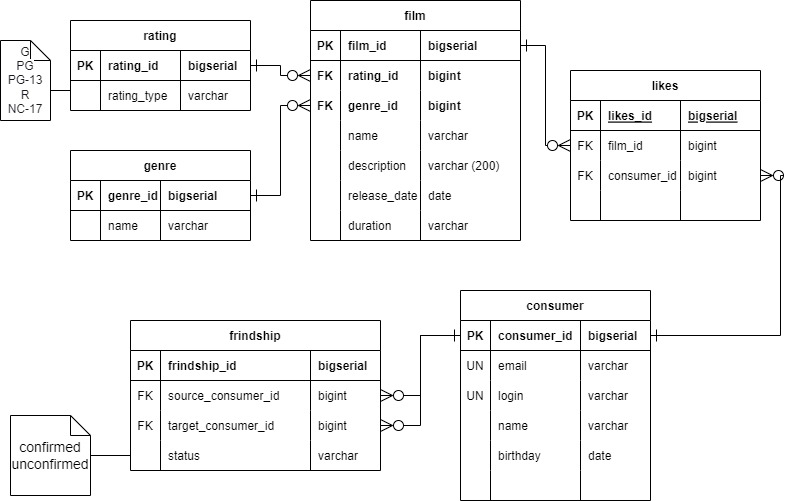
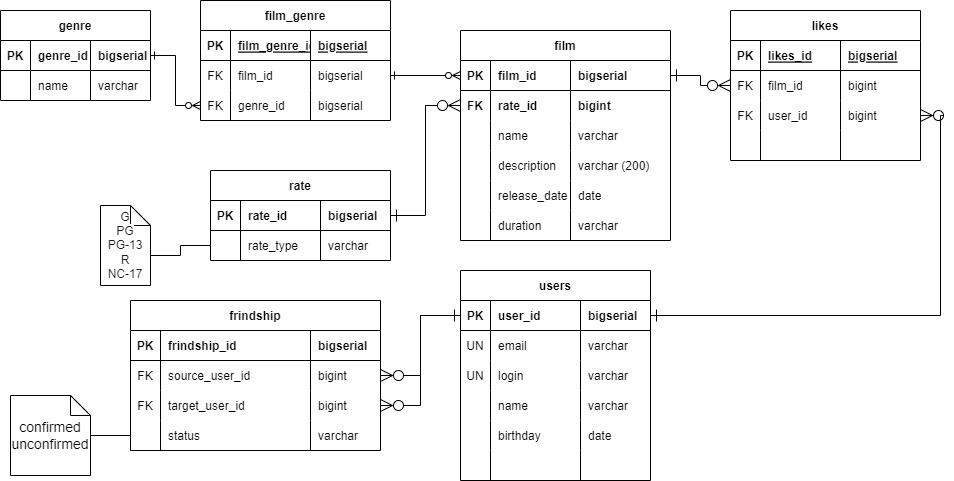
fix: schema was changed.

diff --git a/src/main/java/ru/yandex/practicum/filmorate/storage/film/FilmDbStorage.java b/src/main/java/ru/yandex/practicum/filmorate/storage/film/FilmDbStorage.java
@@ -1,15 +1,30 @@
 package ru.yandex.practicum.filmorate.storage.film;
 
+import org.springframework.stereotype.Component;
 import ru.yandex.practicum.filmorate.model.Film;
 import ru.yandex.practicum.filmorate.model.User;
 
 import java.util.List;
 
-public class FilmDbStorage implements FilmStorage{
+@Component("daoForH2Database")
+public class FilmDbStorage implements FilmStorage {
     @Override
     public Film saveNewFilm(Film film) {
-        return null;
+        String sqlQuery = "INSERT INTO employees()" +
+                "VALUES (?, ?, ?)";
+        KeyHolder keyHolder = new GeneratedKeyHolder();
+        jdbcTemplate.update(connection -> {
+            PreparedStatement stmt = connection.prepareStatement(sqlQuery, new String[]{"id"});
+            stmt.setString(1, employee.getFirstName());
+            stmt.setString(2, employee.getLastName());
+            stmt.setLong(3, employee.getYearlyIncome());
+            return stmt;
+        }, keyHolder);
+        return keyHolder.getKey().longValue();
     }
+
+        return null;
+}
 
     @Override
     public Film updateFilm(Film film) {

diff --git a/src/main/java/ru/yandex/practicum/filmorate/service/FilmValidationService.java b/src/main/java/ru/yandex/practicum/filmorate/service/FilmValidationService.java
@@ -3,11 +3,11 @@ package ru.yandex.practicum.filmorate.service;
 import org.slf4j.Logger;
 import org.slf4j.LoggerFactory;
 import org.springframework.beans.factory.annotation.Autowired;
+import org.springframework.beans.factory.annotation.Qualifier;
 import org.springframework.stereotype.Service;
 import ru.yandex.practicum.filmorate.controller.FilmController;
 import ru.yandex.practicum.filmorate.model.Film;
 import ru.yandex.practicum.filmorate.storage.film.FilmStorage;
-import ru.yandex.practicum.filmorate.storage.film.InMemoryFilmStorage;
 
 import javax.validation.ValidationException;
 import java.time.LocalDate;
@@ -17,6 +17,7 @@ import java.util.List;
 public class FilmValidationService {
     private final static LocalDate EARLIEST_RELEASE_DATE = LocalDate.parse("1895-12-28");
     private final static Logger log = LoggerFactory.getLogger(FilmController.class);
+    @Qualifier("daoForH2Database")
     private final FilmStorage filmStorage;
 
     @Autowired

diff --git a/src/main/java/ru/yandex/practicum/filmorate/model/Genre.java b/src/main/java/ru/yandex/practicum/filmorate/model/Genre.java
@@ -5,7 +5,7 @@ import lombok.NoArgsConstructor;
 
 @Data
 @NoArgsConstructor
-public class Renre {
+public class Genre {
     private long genreId;
     private String name;
 }
